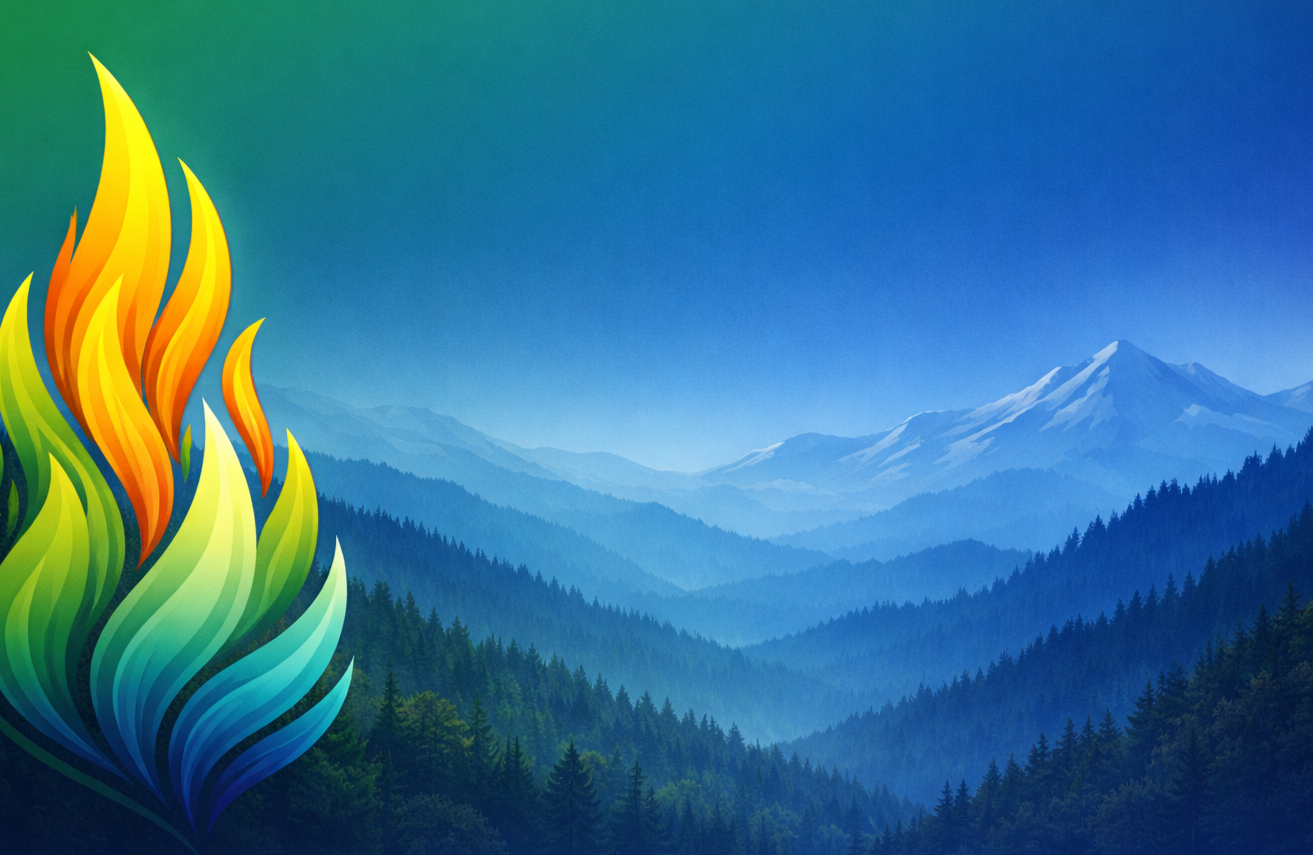
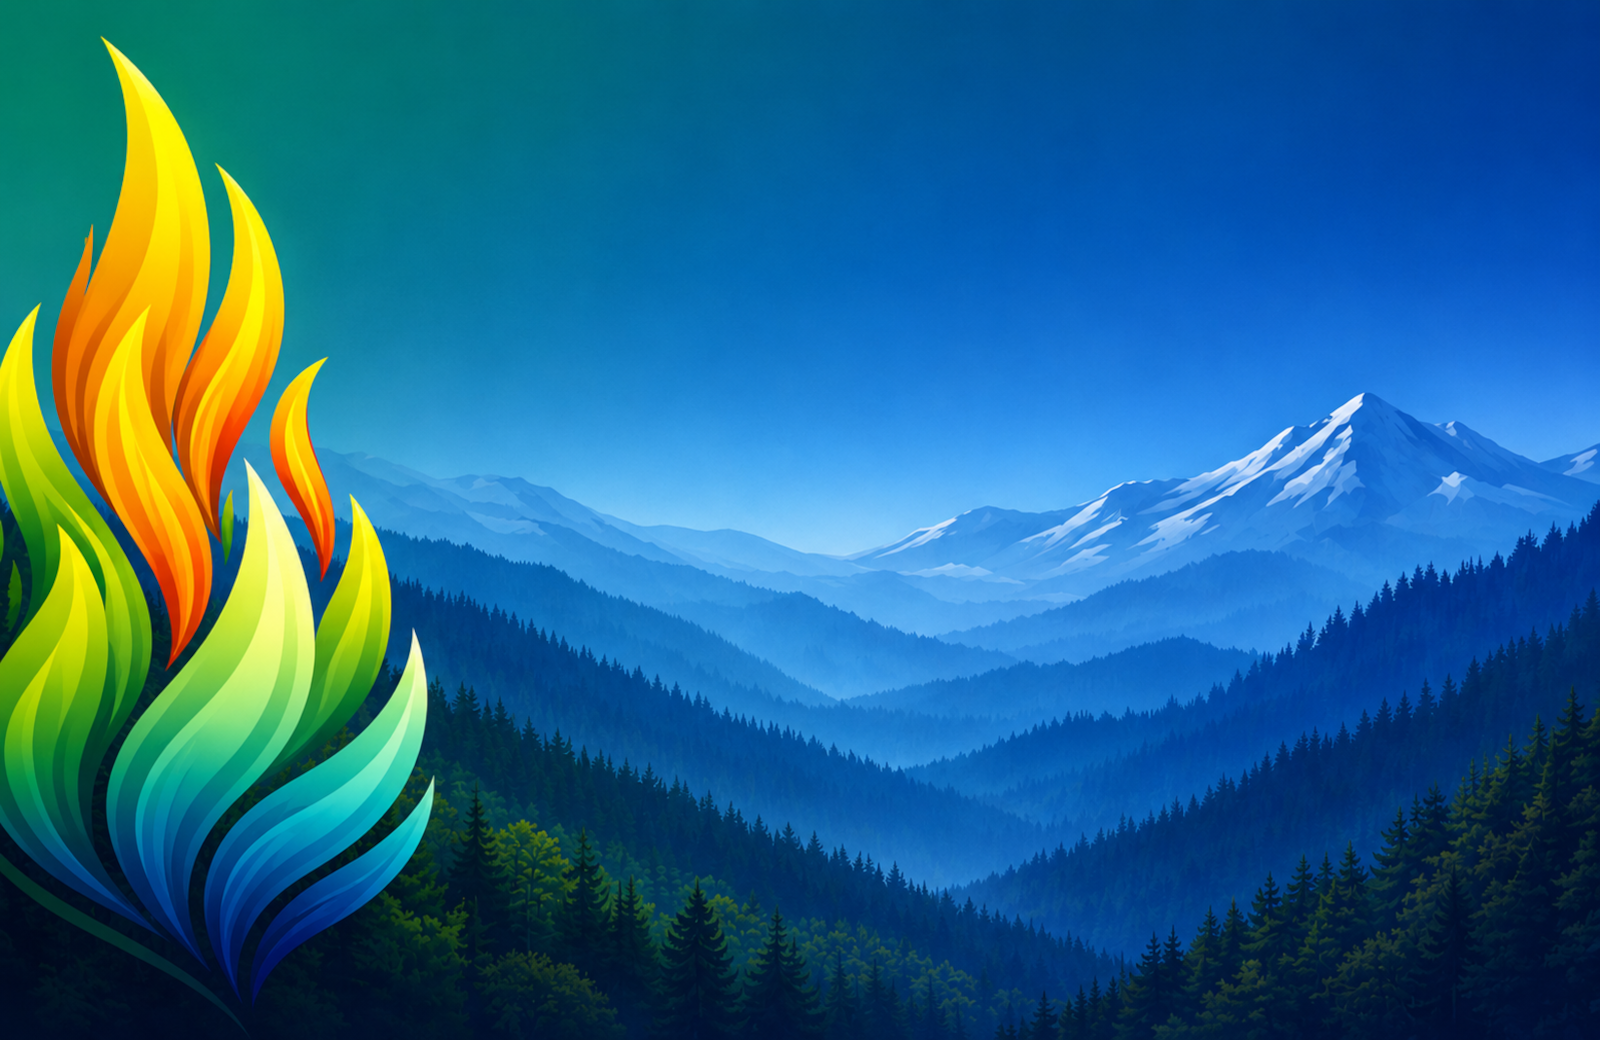
modif bg-hero

diff --git a/src/layout/Layout.jsx b/src/layout/Layout.jsx
@@ -6,7 +6,7 @@ export default function Layout({ children }) {
       {/* IMAGE DE FOND FIXE */}
       <div className="fixed inset-0 -z-20">
         <img
-          src="/bg-hero.jpg"
+          src="/bg-hero.webp"
           alt=""
           className="h-full w-full object-cover object-center"
         />
